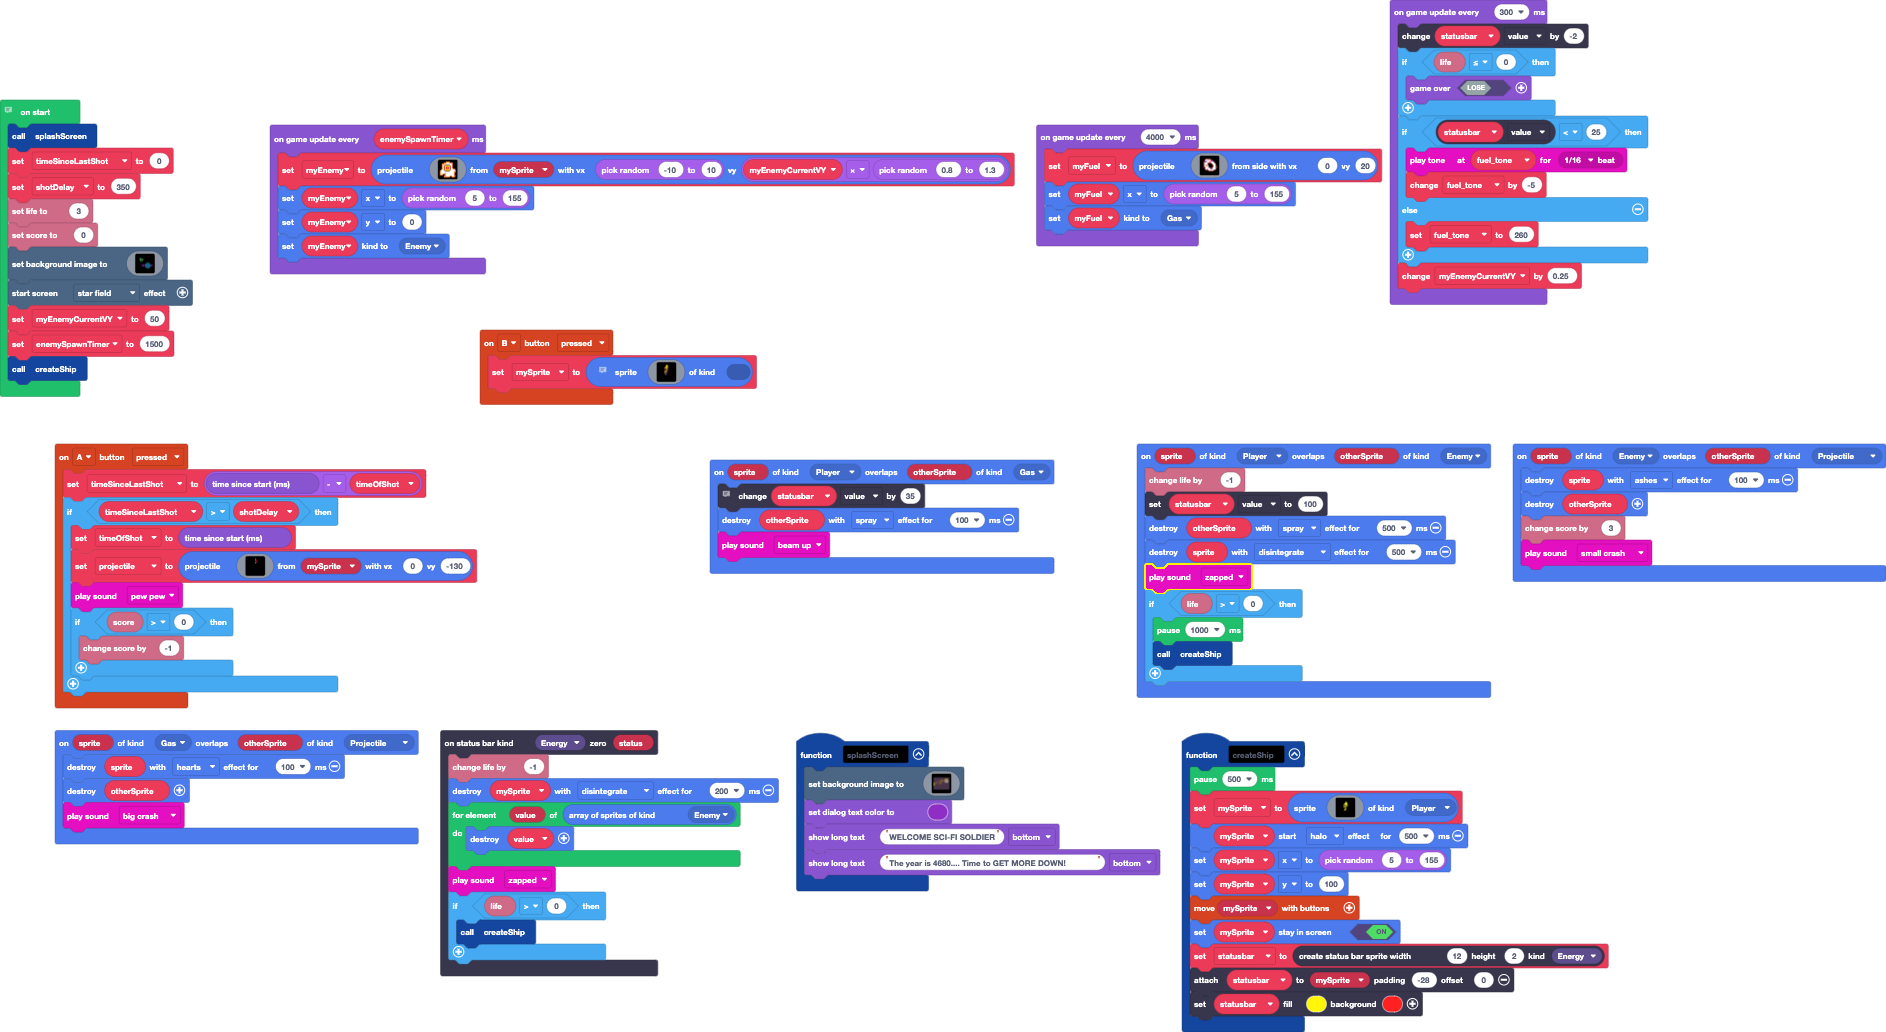
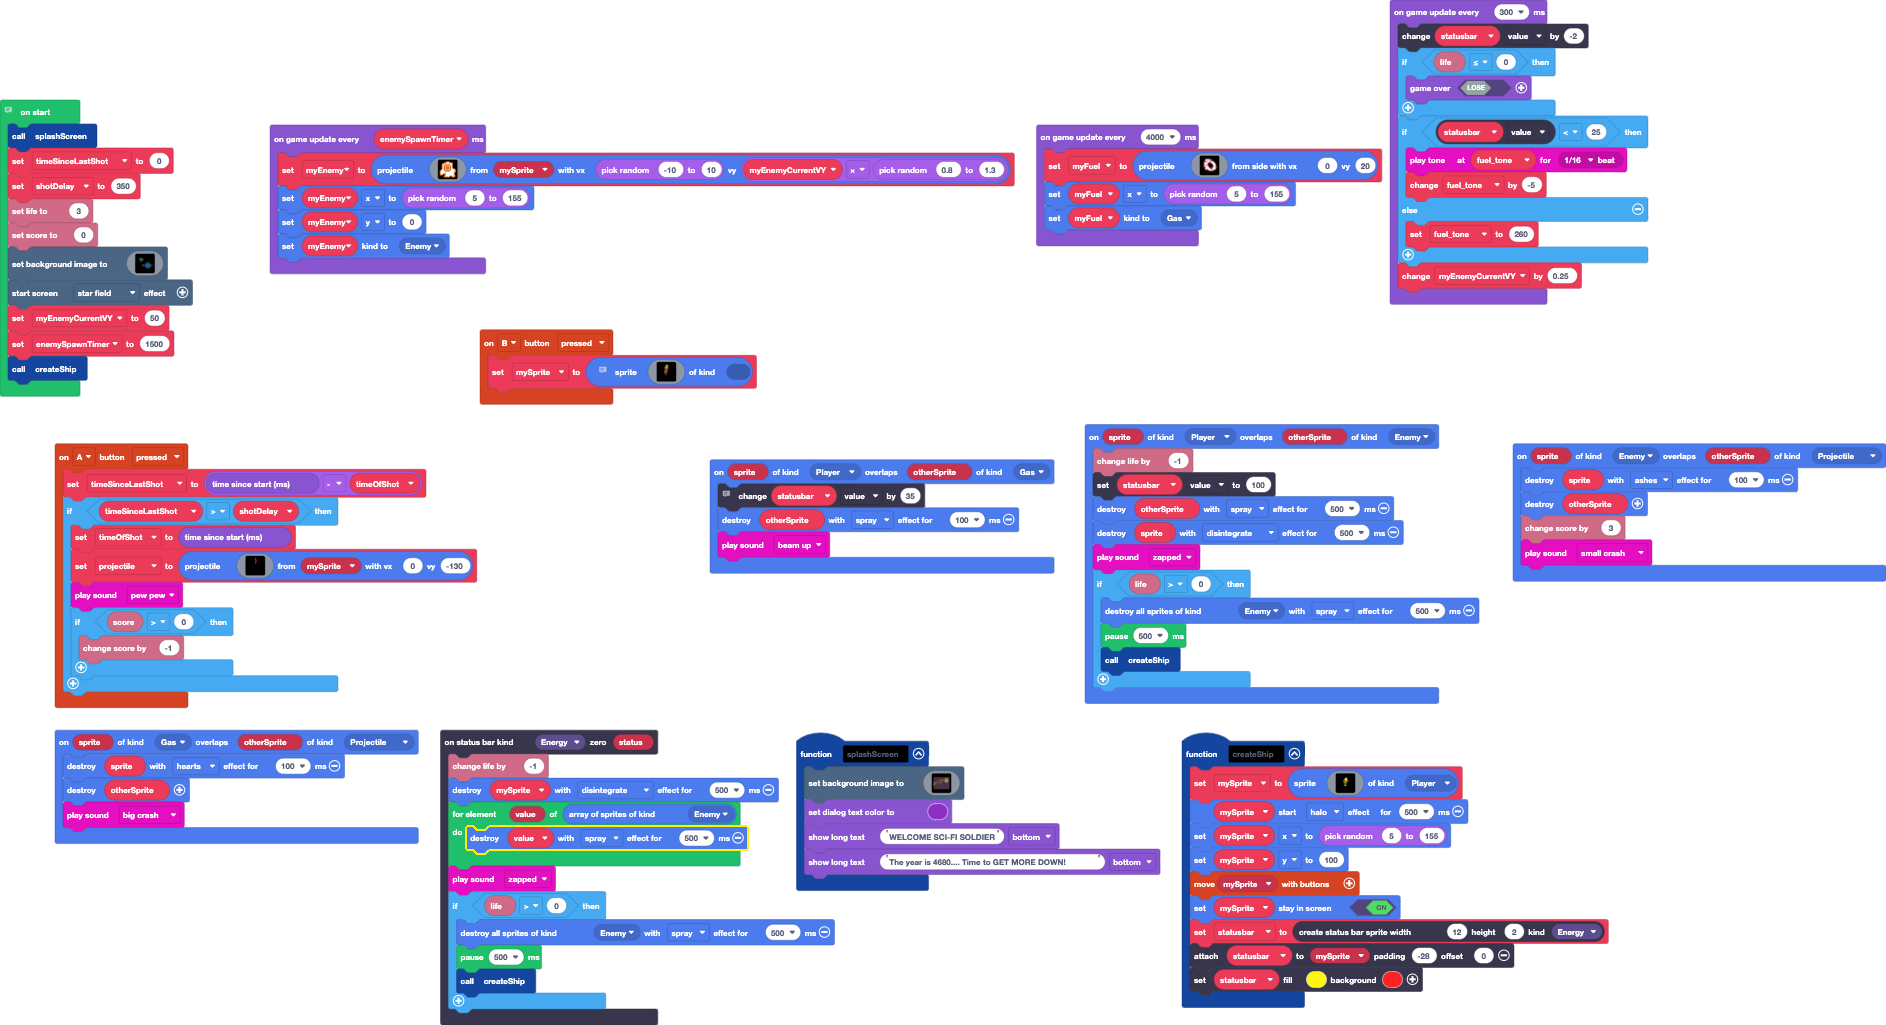
working to fix issue when rocket is hit or runs out of fuel

diff --git a/main.ts b/main.ts
@@ -31,7 +31,6 @@ sprites.onOverlap(SpriteKind.Enemy, SpriteKind.Projectile, function (sprite, oth
     music.smallCrash.play()
 })
 function createShip () {
-    pause(500)
     mySprite = sprites.create(assets.image`Ship2`, SpriteKind.Player)
     mySprite.startEffect(effects.halo, 500)
     mySprite.x = randint(5, 155)
@@ -56,12 +55,14 @@ function splashScreen () {
 }
 statusbars.onZero(StatusBarKind.Energy, function (status) {
     info.changeLifeBy(-1)
-    mySprite.destroy(effects.disintegrate, 200)
+    mySprite.destroy(effects.disintegrate, 500)
     for (let value of sprites.allOfKind(SpriteKind.Enemy)) {
-        value.destroy()
+        value.destroy(effects.spray, 500)
     }
     music.zapped.play()
     if (info.life() > 0) {
+        sprites.destroyAllSpritesOfKind(SpriteKind.Enemy, effects.spray, 500)
+        pause(500)
         createShip()
     }
 })
@@ -72,7 +73,8 @@ sprites.onOverlap(SpriteKind.Player, SpriteKind.Enemy, function (sprite, otherSp
     sprite.destroy(effects.disintegrate, 500)
     music.zapped.play()
     if (info.life() > 0) {
-        pause(1000)
+        sprites.destroyAllSpritesOfKind(SpriteKind.Enemy, effects.spray, 500)
+        pause(500)
         createShip()
     }
 })
